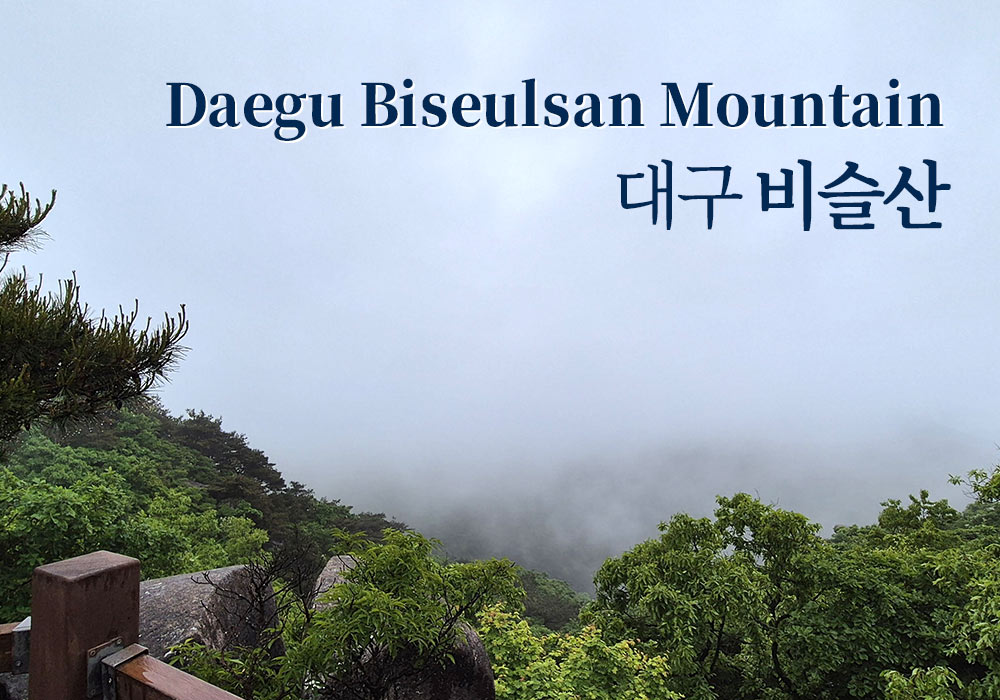
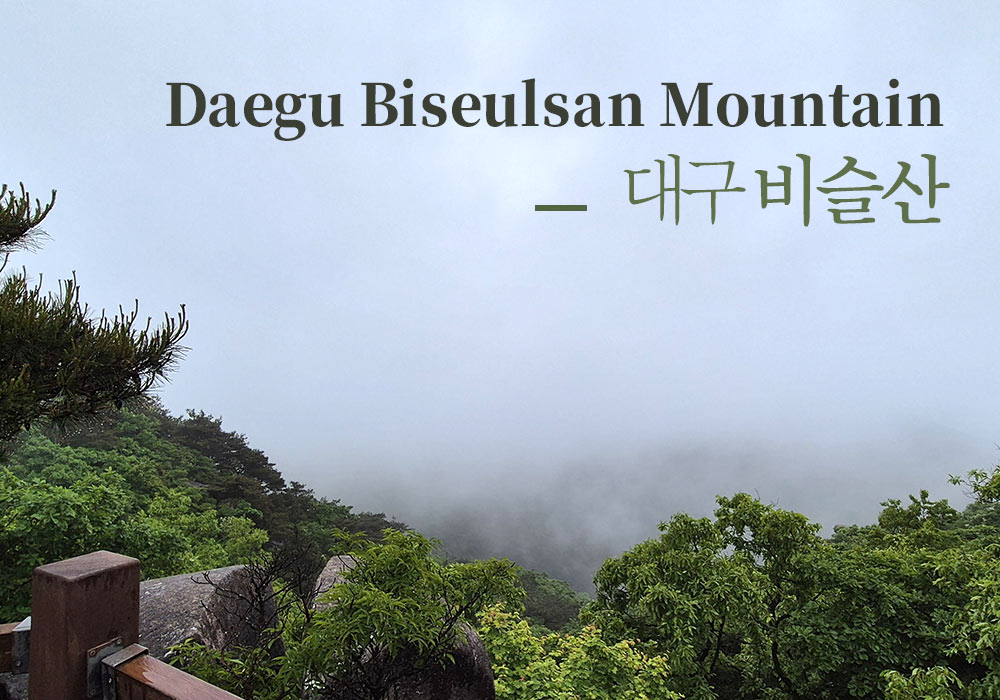
ㅇ

Changed region(s): [[0.155, 0.12, 0.961, 0.21], [0.62, 0.21, 0.961, 0.33], [0.527, 0.27, 0.589, 0.3]]

diff --git a/_site/assets/css/style.css b/_site/assets/css/style.css
@@ -435,16 +435,16 @@ font-weight: bold;cursor: pointer;user-select: none; /* 클릭 시 텍스트 블
 }
 
 /*************************사진 2장 가로 나열 레이아웃 --- ****************************/
-.photo-dual-container { display: grid; grid-template-columns: repeat(2, 1fr); gap: 15px; margin-bottom: 25px; }
+.photo-dual-container { display: grid; grid-template-columns: repeat(2, 1fr); gap: 20px; margin: 25px 0 30px 0; }
 .photo-dual-item { text-align: center; }
 .photo-dual-img { width: 100%; border-radius: 8px; object-fit: cover; }
 
 @media (max-width: 768px) { .photo-dual-container { grid-template-columns: repeat(1, 1fr); } }
 
 /*************************사진 3장 가로 나열 레이아웃 --- ****************************/
-.photo-tri-container { display: grid; grid-template-columns: repeat(3, 1fr); gap: 15px; margin-bottom: 25px; }
+.photo-tri-container { display: grid; grid-template-columns: repeat(3, 1fr); gap: 20px; margin: 25px 0 30px 0; }
 .photo-tri-item { text-align: center; }
-.photo-tri-img { width: 100%; border-radius: 8px; object-fit: cover; aspect-ratio: 1 / 1; } /* 3장은 정사각형이 예뻐요 */
+.photo-tri-img { width: 100%; border-radius: 8px; object-fit: cover; } 
 
 /* 모바일에서는 1줄에 1개씩 */
 @media (max-width: 768px) { .photo-tri-container { grid-template-columns: repeat(1, 1fr); } }

diff --git a/assets/css/style.css b/assets/css/style.css
@@ -435,16 +435,16 @@ font-weight: bold;cursor: pointer;user-select: none; /* 클릭 시 텍스트 블
 }
 
 /*************************사진 2장 가로 나열 레이아웃 --- ****************************/
-.photo-dual-container { display: grid; grid-template-columns: repeat(2, 1fr); gap: 15px; margin-bottom: 25px; }
+.photo-dual-container { display: grid; grid-template-columns: repeat(2, 1fr); gap: 20px; margin: 25px 0 30px 0; }
 .photo-dual-item { text-align: center; }
 .photo-dual-img { width: 100%; border-radius: 8px; object-fit: cover; }
 
 @media (max-width: 768px) { .photo-dual-container { grid-template-columns: repeat(1, 1fr); } }
 
 /*************************사진 3장 가로 나열 레이아웃 --- ****************************/
-.photo-tri-container { display: grid; grid-template-columns: repeat(3, 1fr); gap: 15px; margin-bottom: 25px; }
+.photo-tri-container { display: grid; grid-template-columns: repeat(3, 1fr); gap: 20px; margin: 25px 0 30px 0; }
 .photo-tri-item { text-align: center; }
-.photo-tri-img { width: 100%; border-radius: 8px; object-fit: cover; aspect-ratio: 1 / 1; } /* 3장은 정사각형이 예뻐요 */
+.photo-tri-img { width: 100%; border-radius: 8px; object-fit: cover; } 
 
 /* 모바일에서는 1줄에 1개씩 */
 @media (max-width: 768px) { .photo-tri-container { grid-template-columns: repeat(1, 1fr); } }